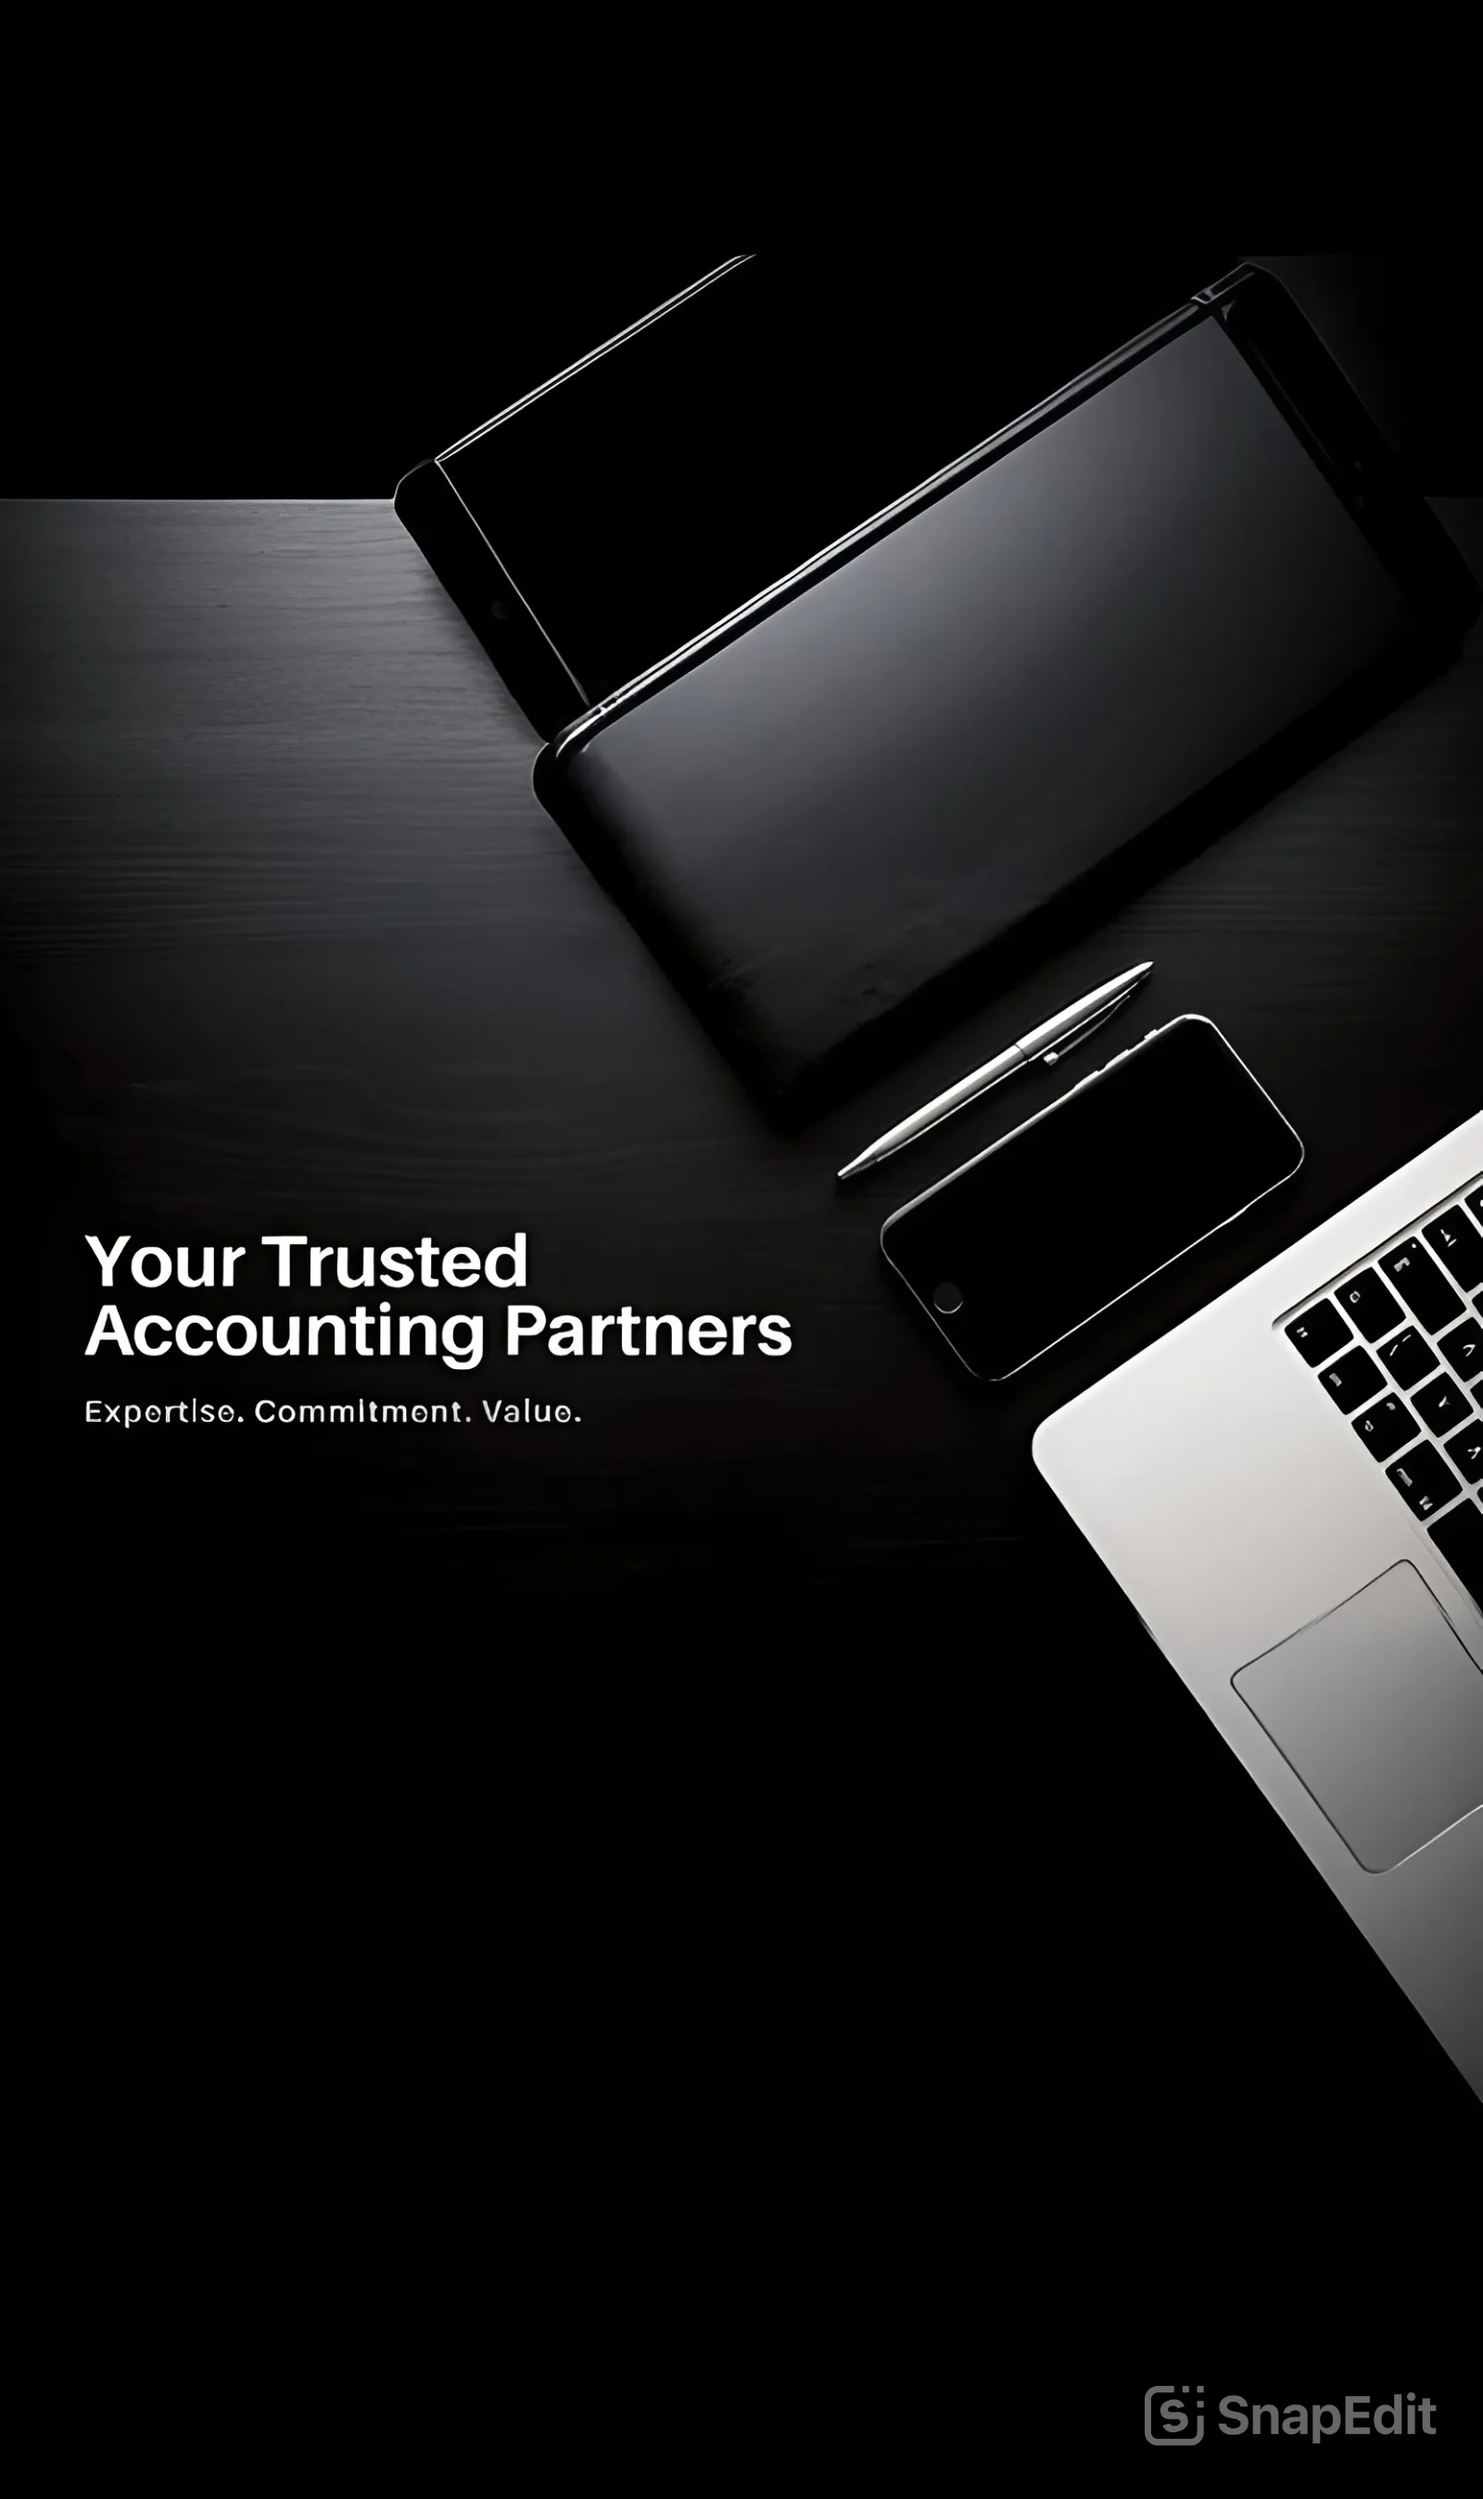
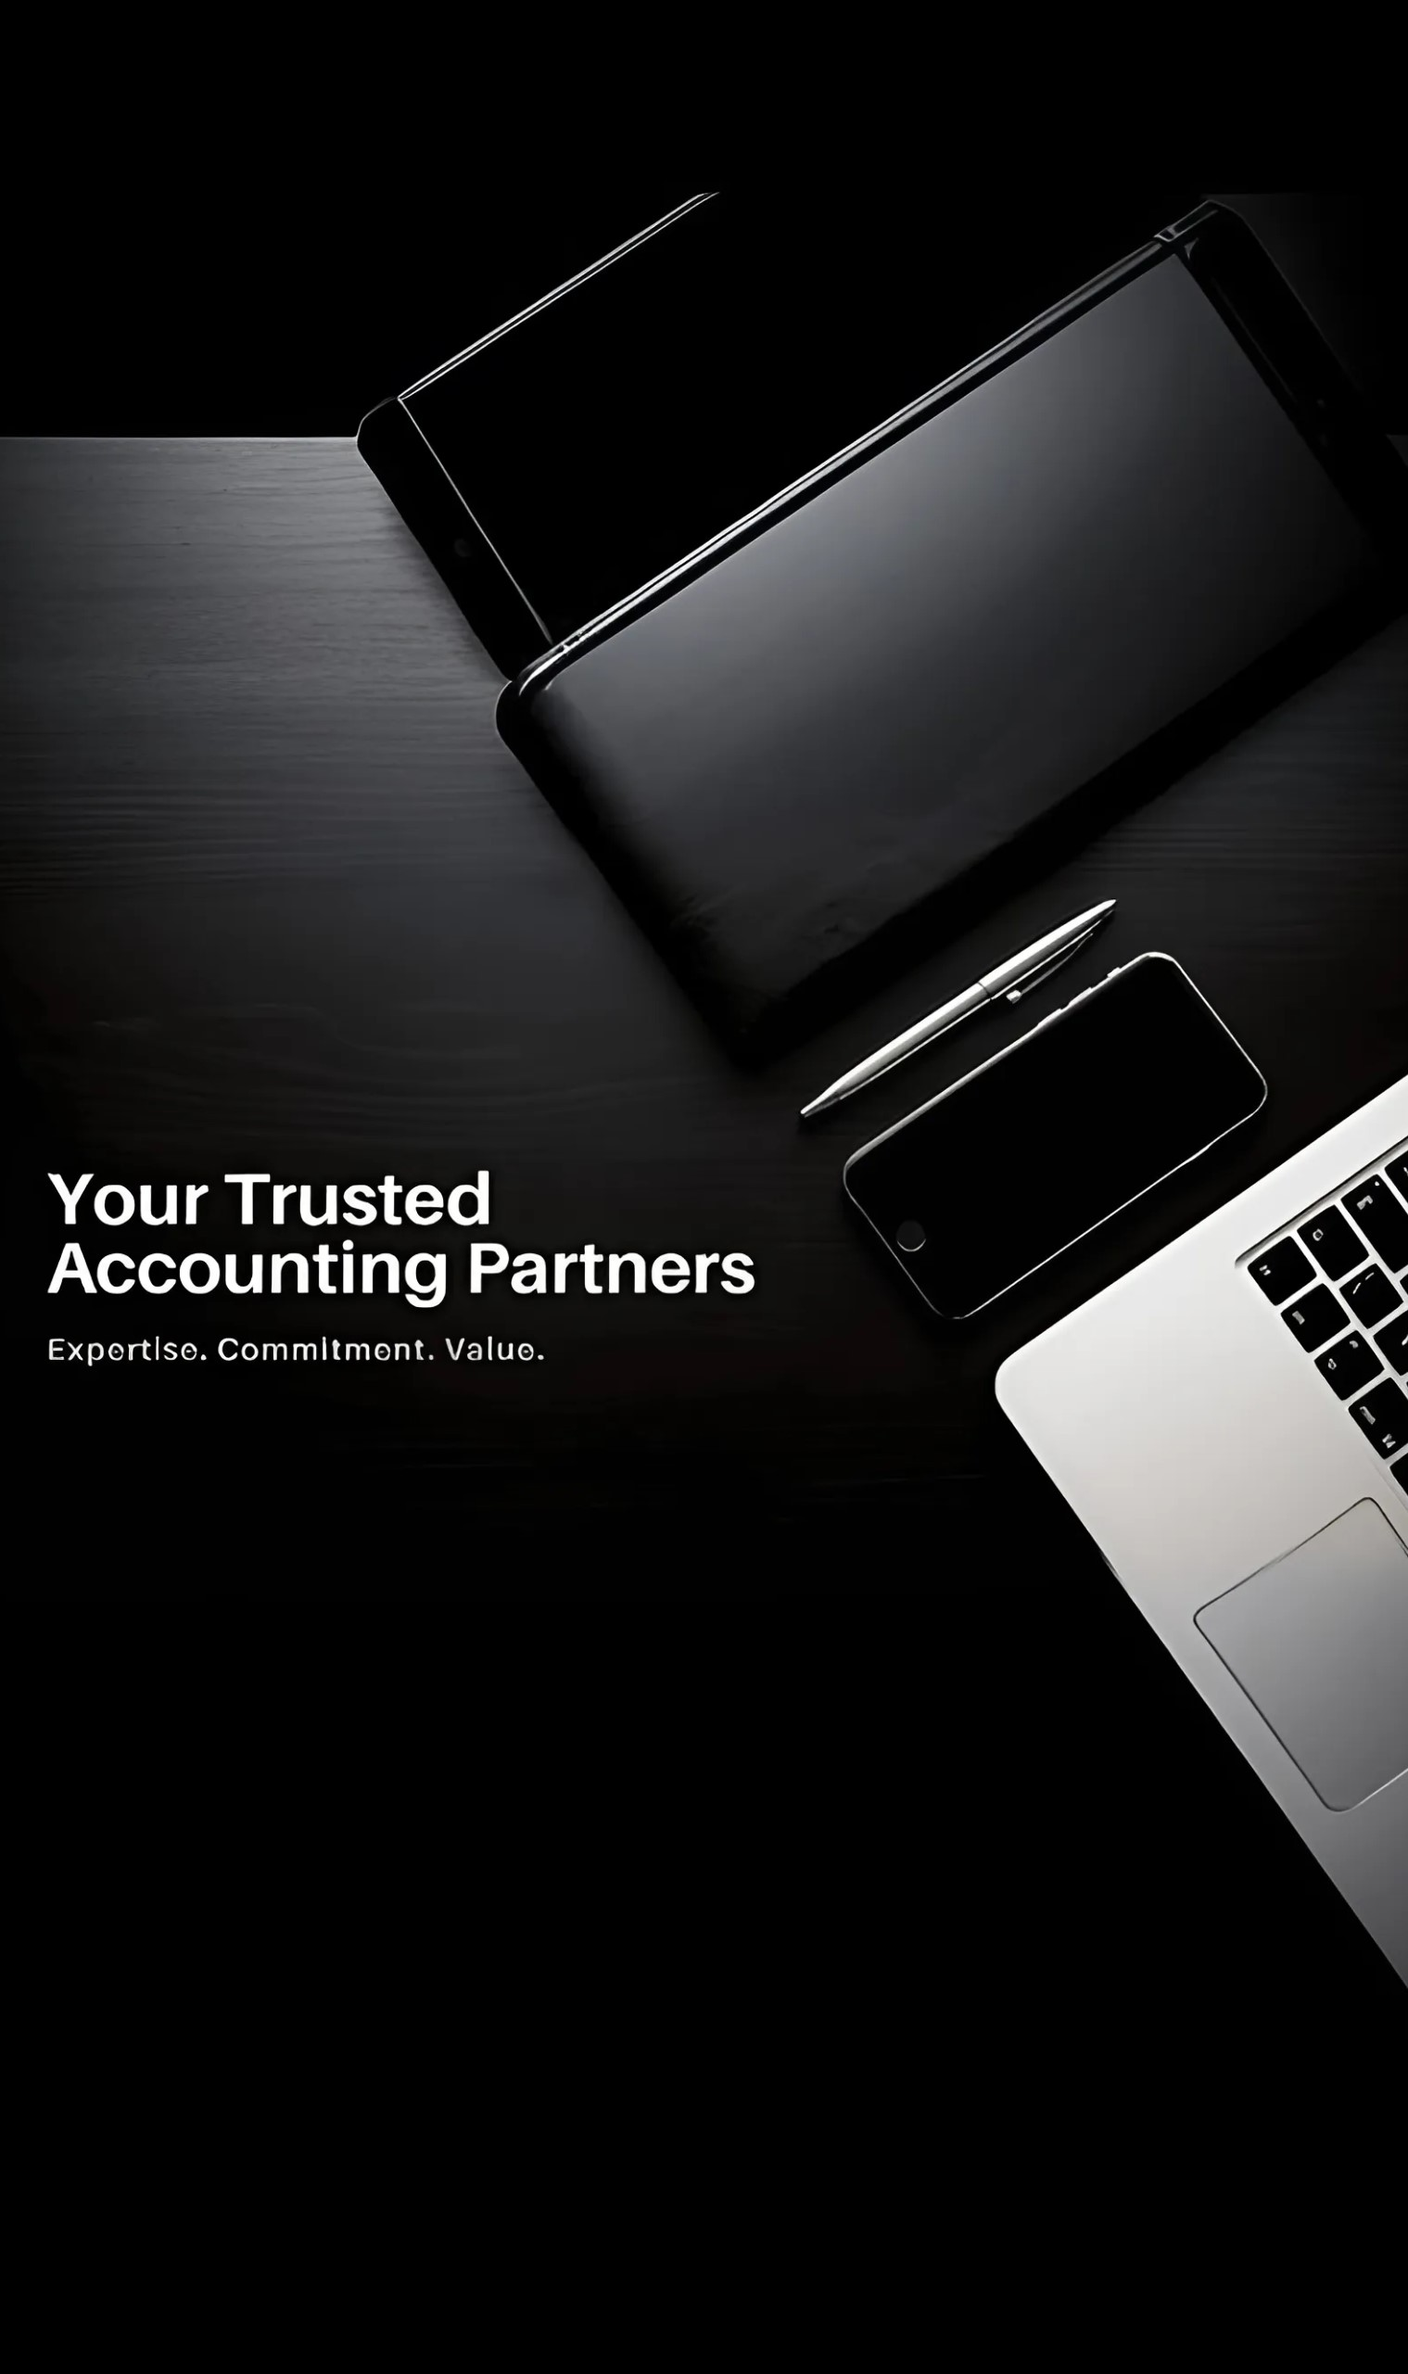
Fixed Bg Image final

diff --git a/css/style.css b/css/style.css
@@ -1811,7 +1811,7 @@ background-color: rgba(0, 39, 76, 0.1);
     font-size: 14px;
   }
   #intro-bg{
-    margin-top: -24em;
+    margin-top: -16em;
   }
   .desc h3{
     font-size: 17px;
